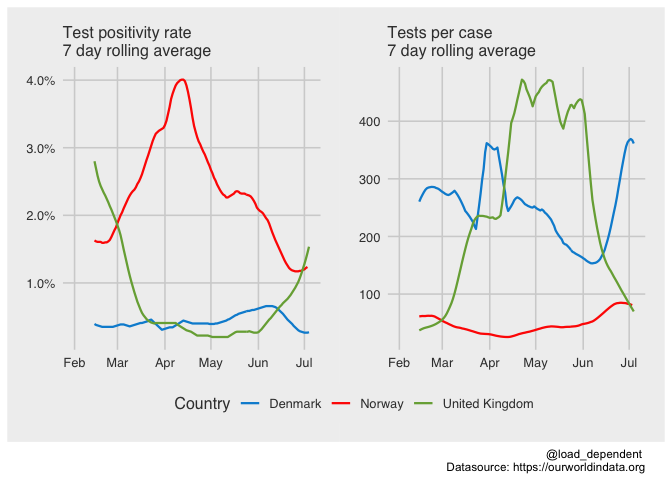
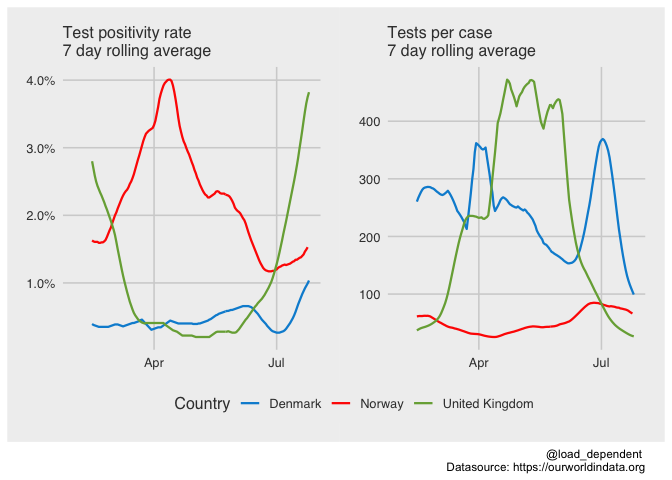
29. july update

diff --git a/README.md b/README.md
@@ -2,15 +2,15 @@ OWID COVID-19 data visualisation
 ================
 Lars Mølgaard Saxhaug <https://twitter.com/load_dependent>
 
-Last compiled on Wednesday 07 July, 2021
+Last compiled on Thursday 29 July, 2021
 
 #### Countries of interest:
 
-Norway, Denmark, United Kingdom
+France, United States, United Kingdom
 
 #### Date range of interest
 
-From Thursday 01 April, 2021 to Wednesday 07 July, 2021
+From Thursday 01 April, 2021 to Thursday 29 July, 2021
 
 #### Adjusted deaths
 
@@ -28,6 +28,6 @@ From Thursday 01 April, 2021 to Wednesday 07 July, 2021
 
 ![](README_files/figure-gfm/cases_adm_deathc-1.png)<!-- -->
 
-#### Test positivity rate and tests per case in Norway, Denmark, United Kingdom
+#### Test positivity rate and tests per case in Denmark, Norway, United Kingdom
 
 ![](README_files/figure-gfm/tests-1.png)<!-- -->
